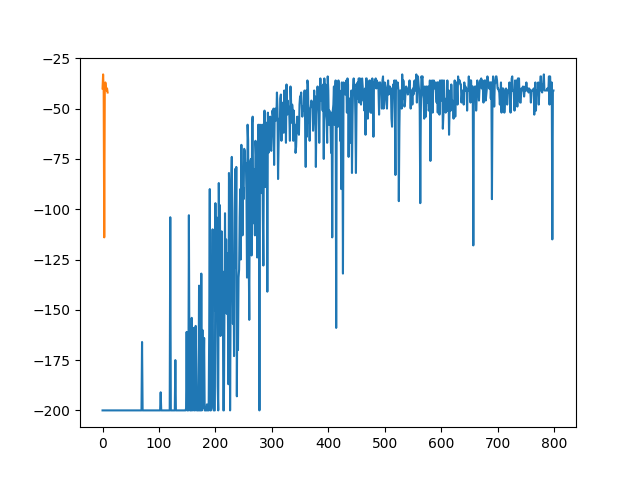
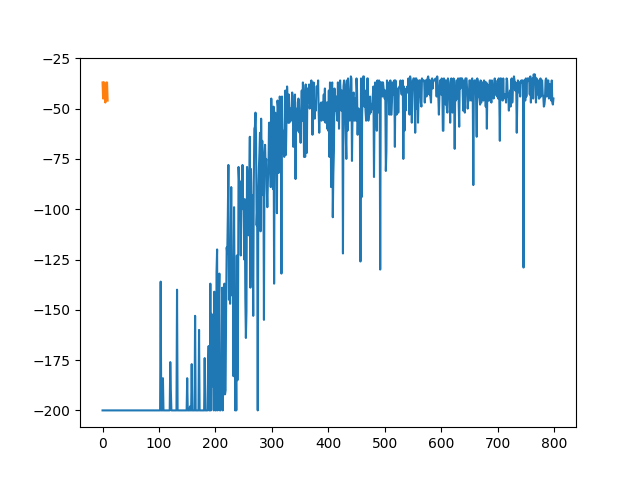
struggle to figure out pyomp but investigation of multiprocessing

Changed region(s): [[0.2188, 0.1562, 0.875, 0.875], [0.1562, 0.1562, 0.1875, 0.5], [0.7188, 0.4062, 0.75, 0.5]]

diff --git a/ME759/ParallelQlearn.py b/ME759/ParallelQlearn.py
@@ -1,0 +1,175 @@
+# -*- coding: utf-8 -*-
+"""
+Created on Tue Jul 18 13:29:29 2023
+
+@author: aidan
+"""
+
+import random
+import torch
+import sys
+import numpy as np
+import gymnasium as gym
+import matplotlib.pyplot as plt
+from torch import nn
+from collections import deque,namedtuple
+import glob
+import io
+import base64
+import os
+import multiprocessing
+os.environ["KMP_DUPLICATE_LIB_OK"]="TRUE"
+from SolverClasses import *
+import time
+start_time = time.time()
+     
+### Define exploration profile
+initial_value = 5
+num_iterations = 800
+exp_decay = np.exp(-np.log(initial_value) / num_iterations * 6) # We compute the exponential decay in such a way the shape of the exploration profile does not depend on the number of iterations
+exploration_profile = [initial_value * (exp_decay ** i) for i in range(num_iterations)]
+
+# Set random seeds
+torch.manual_seed(0)
+np.random.seed(0)
+
+### PARAMETERS
+gamma = 0.99   # gamma parameter for the long term reward
+replay_memory_capacity = 10000   # Replay memory capacity
+#lr = 1e-2   # Optimizer learning rate
+#lr = 1e-4
+lr = 1e-3
+target_net_update_steps = 10   # Number of episodes to wait before updating the target network
+batch_size = 256   # Number of samples to take from the replay memory for each update
+bad_state_penalty = 0   # Penalty to the reward when we are in a bad state (in this case when the pole falls down) 
+min_samples_for_training = 1000   # Minimum samples in the replay memory to enable the training
+
+
+### Create environment
+env = gym.make('Acrobot') # Initialize the Gym environment
+
+# Get the shapes of the state space (observation_space) and action space (action_space)
+state_space_dim = env.observation_space.shape[0]
+action_space_dim = env.action_space.n
+device = torch.device("cuda" if torch.cuda.is_available() else "cpu")
+#device = torch.device("cpu")
+
+print(f"STATE SPACE SIZE: {state_space_dim}")
+print(f"ACTION SPACE SIZE: {action_space_dim}")
+
+### Initialize the replay memory
+replay_mem = ReplayMemory(replay_memory_capacity)    
+
+### Initialize the policy network
+policy_net = DQN(state_space_dim, action_space_dim).to(device)
+
+### Initialize the target network with the same weights of the policy network
+target_net = DQN(state_space_dim, action_space_dim).to(device)
+target_net.load_state_dict(policy_net.state_dict()) # This will copy the weights of the policy network to the target network
+
+### Initialize the optimizer
+optimizer = torch.optim.Adam(policy_net.parameters(), lr=lr) # The optimizer will update ONLY the parameters of the policy network
+
+### Initialize the loss function (Huber loss)
+loss_fn = nn.SmoothL1Loss()
+
+# Initialize the Gym environment
+env = gym.make('Acrobot') 
+observation, info = env.reset()
+
+plotting_rewards=[]
+
+for episode_num, tau in enumerate(exploration_profile):
+
+    # Reset the environment and get the initial state
+    observation, info = env.reset()
+    # Reset the score. The final score will be the total amount of steps before the pole falls
+    score = 0
+    terminated = False
+    truncated = False
+
+    # Go on until the pole falls off
+    while not (terminated or truncated):
+
+      # Choose the action following the policy
+      action, q_values = choose_action_softmax(policy_net, observation, temperature=tau)
+      
+      # Apply the action and get the next state, the reward and a flag "done" that is True if the game is ended
+      next_observation, reward, terminated, truncated, info = env.step(action)
+
+      # Update the final score (+1 for each step)
+      score += reward
+
+      # Apply penalty for bad state
+      if terminated or truncated: # if the pole has fallen down 
+          reward += bad_state_penalty
+          next_observation = None
+      
+      # Update the replay memory
+      replay_mem.push(observation, action, next_observation, reward)
+
+      # Update the network
+      if score % 5 == 1:
+        if len(replay_mem) > min_samples_for_training: # we enable the training only if we have enough samples in the replay memory, otherwise the training will use the same samples too often
+            update_step(policy_net, target_net, replay_mem, gamma, optimizer, loss_fn, batch_size, device)
+
+      observation = next_observation
+
+    # Update the target network every target_net_update_steps episodes
+    if episode_num % target_net_update_steps == 0:
+        print('Updating target network...')
+        target_net.load_state_dict(policy_net.state_dict()) # This will copy the weights of the policy network to the target network
+    
+    plotting_rewards.append(score)
+    # Print the final score
+    print(f"EPISODE: {episode_num + 1} - FINAL SCORE: {score} - Temperature: {tau}") # Print the final score
+
+env.close()
+
+plt.plot(plotting_rewards)
+plt.savefig('learn.png')
+
+# Initialize the Gym environment
+env = gym.make('Acrobot') 
+observation, info = env.reset()
+plotting_rewards_final = []
+
+for episode_num in range(10):
+
+    # Reset the environment and get the initial state
+    observation, info = env.reset()
+    # Reset the score. The final score will be the total amount of steps before the pole falls
+    score = 0
+    terminated = False
+    truncated = False
+
+    # Go on until the pole falls off
+    while not (terminated or truncated):
+
+      # Choose the action following the policy
+      action, q_values = choose_action_softmax(policy_net, observation, temperature=0)
+      
+      # Apply the action and get the next state, the reward and a flag "done" that is True if the game is ended
+      next_observation, reward, terminated, truncated, info = env.step(action)
+
+      # Update the final score (+1 for each step)
+      score += reward
+
+      # Apply penalty for bad state
+      if terminated or truncated: # if the pole has fallen down 
+          reward += bad_state_penalty
+          next_observation = None
+      
+
+      observation = next_observation
+
+    plotting_rewards_final.append(score)
+    # Print the final score
+    print(f"EPISODE: {episode_num + 1} - FINAL SCORE: {score} - Temperature: {tau}") # Print the final score
+
+env.close()
+
+plt.plot(plotting_rewards_final)
+plt.savefig('final.png')
+
+print("--- %s seconds ---" % (time.time() - start_time))

diff --git a/ME759/baselinetest.py b/ME759/baselinetest.py
@@ -1,0 +1,39 @@
+import time
+
+import gymnasium as gym
+import numpy as np
+
+from stable_baselines3 import A2C
+from stable_baselines3.common.vec_env import DummyVecEnv, SubprocVecEnv
+from stable_baselines3.common.utils import set_random_seed
+from stable_baselines3.common.evaluation import evaluate_policy
+from stable_baselines3.common.env_util import make_vec_env
+
+from typing import Callable
+
+
+def make_env(env_id: str, rank: int, seed: int = 0) -> Callable:
+    """
+    Utility function for multiprocessed env.
+
+    :param env_id: (str) the environment ID
+    :param num_env: (int) the number of environment you wish to have in subprocesses
+    :param seed: (int) the inital seed for RNG
+    :param rank: (int) index of the subprocess
+    :return: (Callable)
+    """
+
+    def _init() -> gym.Env:
+        env = gym.make(env_id)
+        env.reset(seed=seed + rank)
+        return env
+
+    set_random_seed(seed)
+    return _init
+
+env_id = "CartPole-v1"
+num_cpu = 4  # Number of processes to use
+# Create the vectorized environment
+env = SubprocVecEnv([make_env(env_id, i) for i in range(num_cpu)])
+
+model = A2C("MlpPolicy", env, verbose=0)
